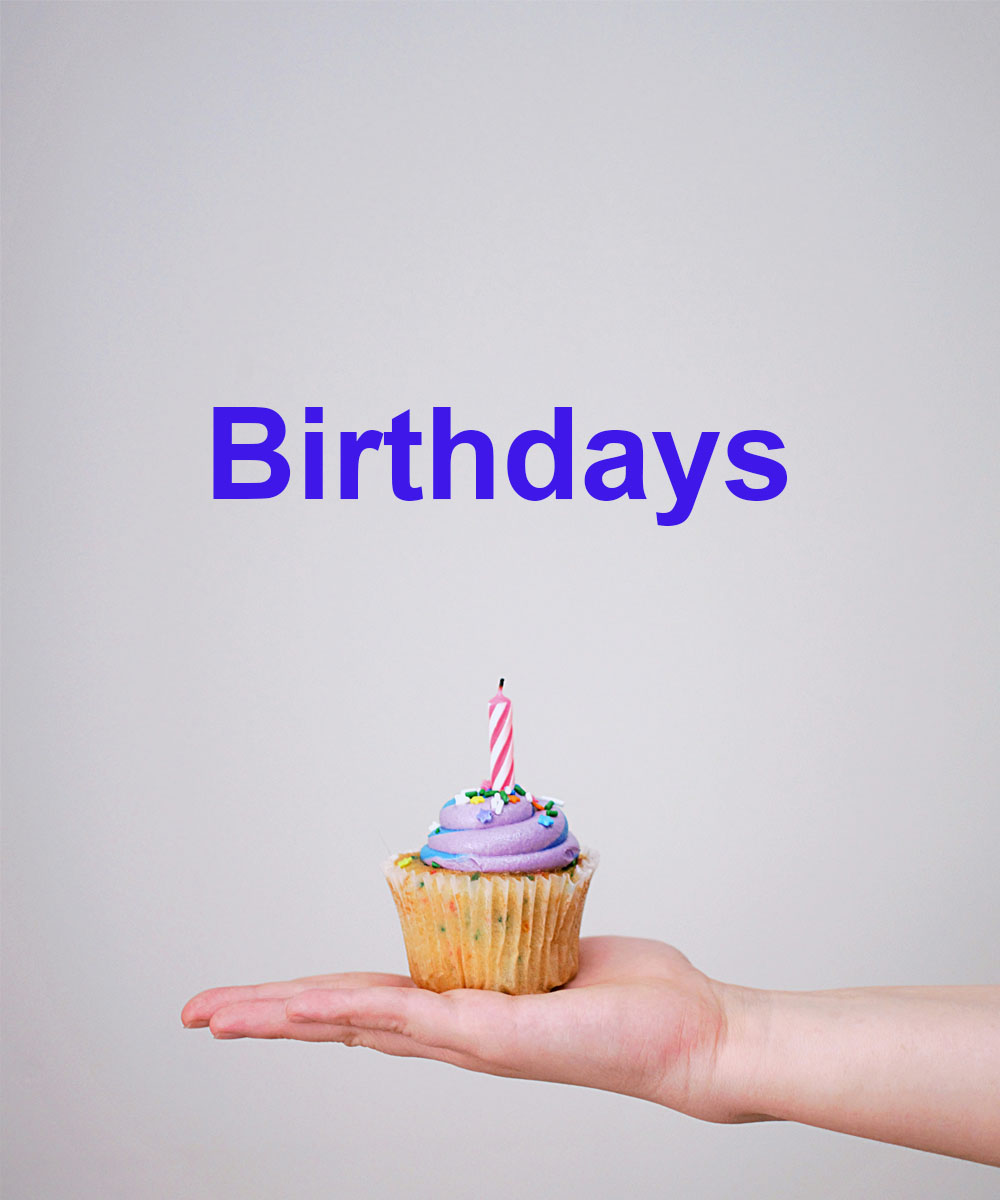
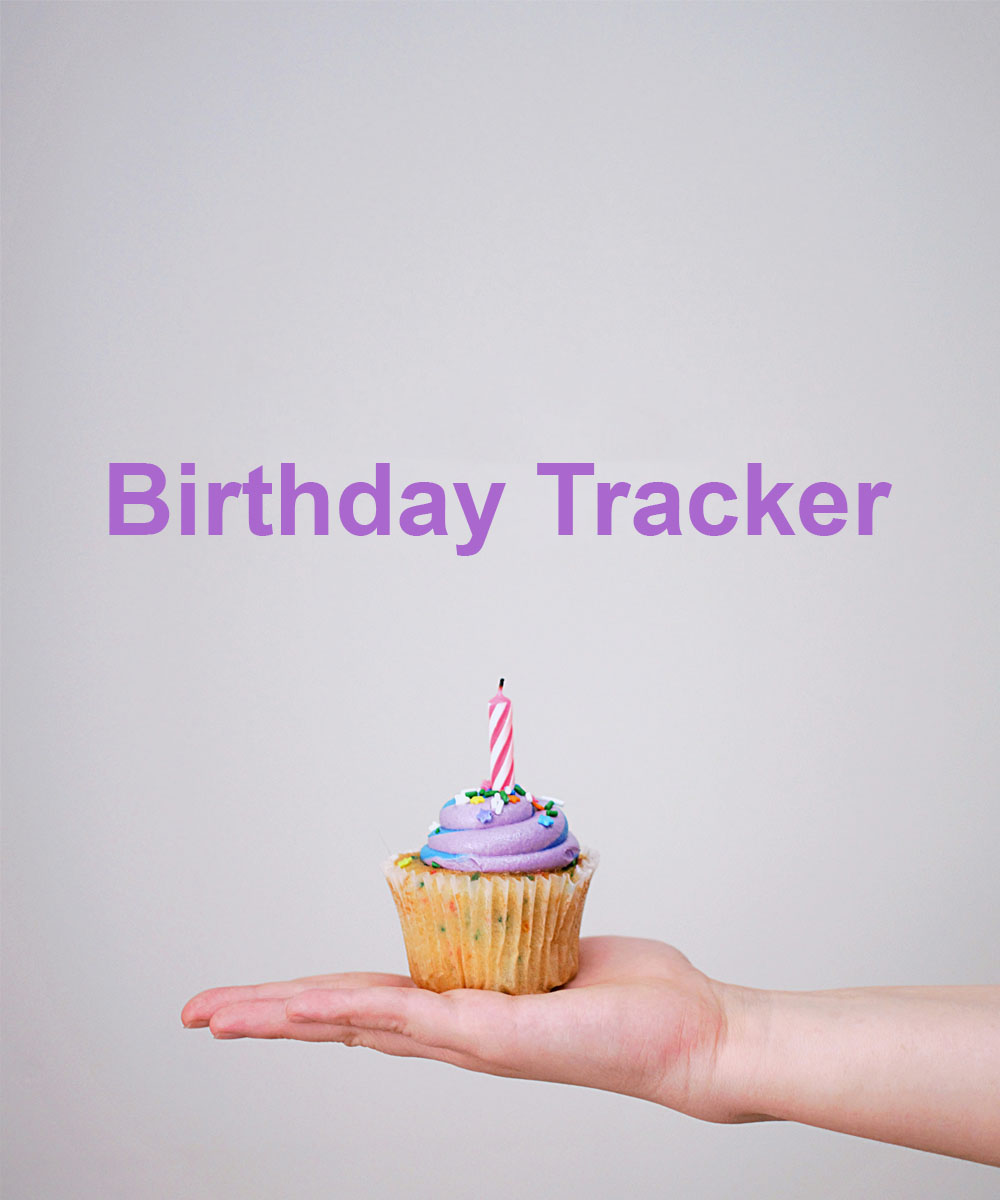
new features

Changed region(s): [[0.093, 0.3392, 0.899, 0.4625]]

diff --git a/portfolio.html b/portfolio.html
@@ -76,7 +76,7 @@
 			<div class="row">
 				<div class="container-fluid">
 					<div class="row">
-						<div class="col-md-6 col-lg-3" data-aos="fade-up" data-aos-delay="200">
+						<div class="col-md-4 col-lg-3" data-aos="fade-up" data-aos-delay="200">
 							<a href="https://madefromjames.pythonanywhere.com/" class="media-1 shade">
 								<img src="images/img_v_1-min.jpg" alt="Image" class="img-fluid">
 								<div class="media-1-content">
@@ -84,15 +84,25 @@
 									<span class="category">Web Application</span>
 								</div>
 							</a>
+							<div>
+								<span class="subheading d-inline-block">Web Application</span>
+								<h3 class="h5">Stock Market</h3>
+								<p class="text-muted">A user-friendly financial management tool enabling stock trading, transaction tracking, and cash balance management.</p>
+							</div>
 						</div>
-						<div class="col-md-6 col-lg-3" data-aos="fade-up" data-aos-delay="300">
-							<a href="https://madefromjames.github.io/google/" class="media-1 shade">
-								<img src="images/img_v_2-min.jpg" alt="Image" class="img-fluid">
+						<div class="col-md-6 col-lg-3" data-aos="fade-up" data-aos-delay="200">
+							<a href="calculator.exe" class="media-1 shade">
+								<img src="images/img_v_5-min.jpg" alt="Image" class="img-fluid">
 								<div class="media-1-content">
-									<h2>Google URLs</h2>
-									<span class="category">Website</span>
+									<h2>Calculator</h2>
+									<span class="category">Application</span>
 								</div>
 							</a>
+							<div>
+								<span class="subheading d-inline-block">Application</span>
+								<h3 class="h5">Calculator</h3>
+								<p class="text-muted">A minimalist desktop calculator application for performing simple arithmetic operations with ease.</p>
+							</div>
 						</div>
 						<div class="col-md-6 col-lg-3" data-aos="fade-up" data-aos-delay="400">
 							<a href="https://projects-0qr3.onrender.com/" class="media-1 shade">
@@ -102,16 +112,40 @@
 									<span class="category">Web Application</span>
 								</div>
 							</a>
+							<div>
+								<span class="subheading d-inline-block">Web Application</span>
+								<h3 class="h5">Wiki</h3>
+								<p class="text-muted">A Django-based application allowing users to create, edit, search, and view encyclopedia entries stored in Markdown format which are then converted to HTML before being displayed</p>
+							</div>
 						</div>
 
 						<div class="col-md-6 col-lg-3" data-aos="fade-up" data-aos-delay="100">
 							<a href="https://cooing-hornet-zealon.koyeb.app/" class="media-1 shade">
 								<img src="images/img_v_4-min.jpg" alt="Image" class="img-fluid">
 								<div class="media-1-content">
-									<h2>Birthdays</h2>
+									<h2>Birthday Tracker</h2>
 									<span class="category">Database</span>
 								</div>
 							</a>
+							<div>
+								<span class="subheading d-inline-block">Database</span>
+								<h3 class="h5">Birthday Tracker</h3>
+								<p class="text-muted">A Flask-based application for storing and managing birthdays. Allows users to add, edit, and delete birthday entries.</p>
+							</div>
+						</div>
+						<div class="col-md-6 col-lg-3" data-aos="fade-up" data-aos-delay="300">
+							<a href="https://madefromjames.github.io/google/" class="media-1 shade">
+								<img src="images/img_v_2-min.jpg" alt="Image" class="img-fluid">
+								<div class="media-1-content">
+									<h2>Google URLs</h2>
+									<span class="category">Website</span>
+								</div>
+							</a>
+							<div>
+								<span class="subheading d-inline-block">HTML/CSS</span>
+								<h3 class="h5">Google URLs</h3>
+								<p class="text-muted">Recreated Google's search interface with HTML and CSS, allowing users experiment with making Google searches to determine parameter names</p>
+							</div>
 						</div>
 						<div class="col-md-6 col-lg-3" data-aos="fade-up" data-aos-delay="100">
 							<a href="images/img_v_7-min.jpg" class="media-1 glightbox shade">
@@ -121,6 +155,11 @@
 									<span class="category">Coming soon</span>
 								</div>
 							</a>
+							<div>
+								<span class="subheading d-inline-block">More features soon</span>
+								<h3 class="h5">Upcoming Projects</h3>
+								<p class="text-muted">Stay tuned for an exciting new project that will revolutionize the way you interact with technology. Coming soon!</p>
+							</div>
 						</div>
 					</div>
 				</div>
